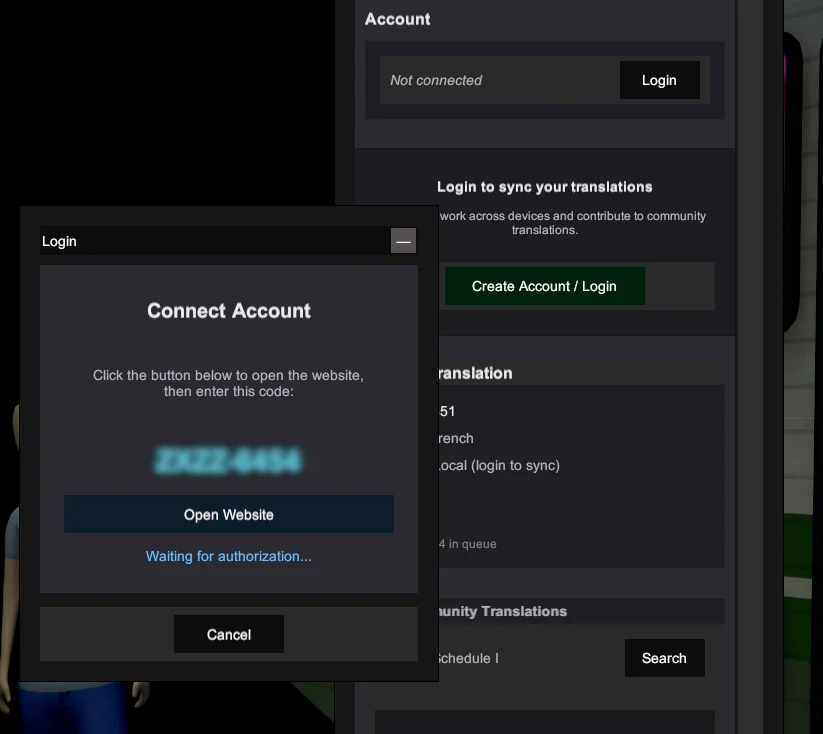
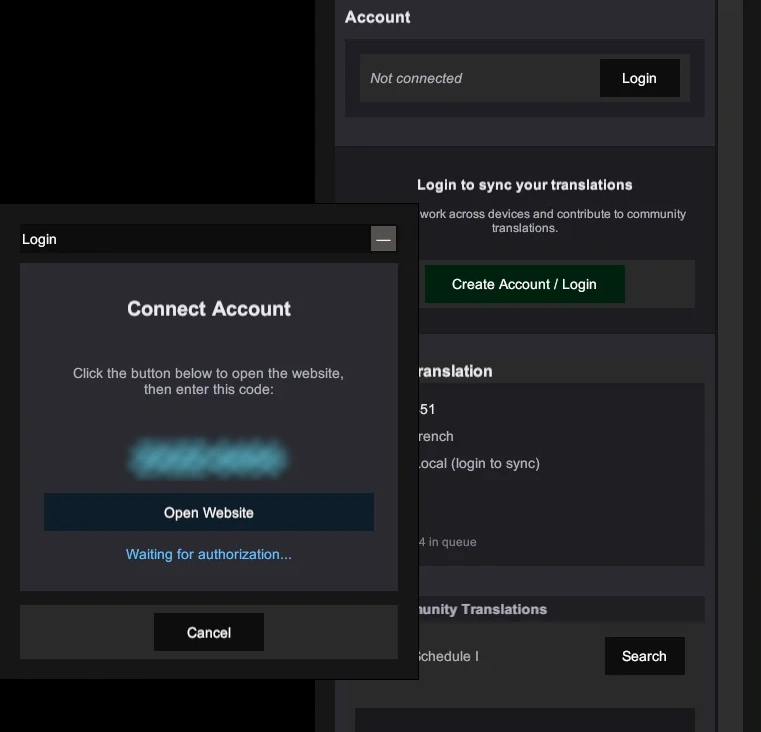
Recalibrate ModConnect on its resized file
The capture was re-encoded after the previous pass, so the width and
height attributes still reserved the old proportions while the page
loaded.

diff --git a/resources/views/docs/index.blade.php b/resources/views/docs/index.blade.php
@@ -945,7 +945,7 @@
                         <img src="{{ asset('images/screenshots/ModConnect.webp') }}"
                              alt="{{ __('docs.sync.mod_connect_alt') }}"
                              class="doc-img doc-img-mod mx-auto"
-                             width="823" height="734"
+                             width="761" height="732"
                              data-zoomable>
                         <figcaption class="text-sm text-gray-400 mt-2">{{ __('docs.sync.mod_connect_caption') }}</figcaption>
                     </figure>
